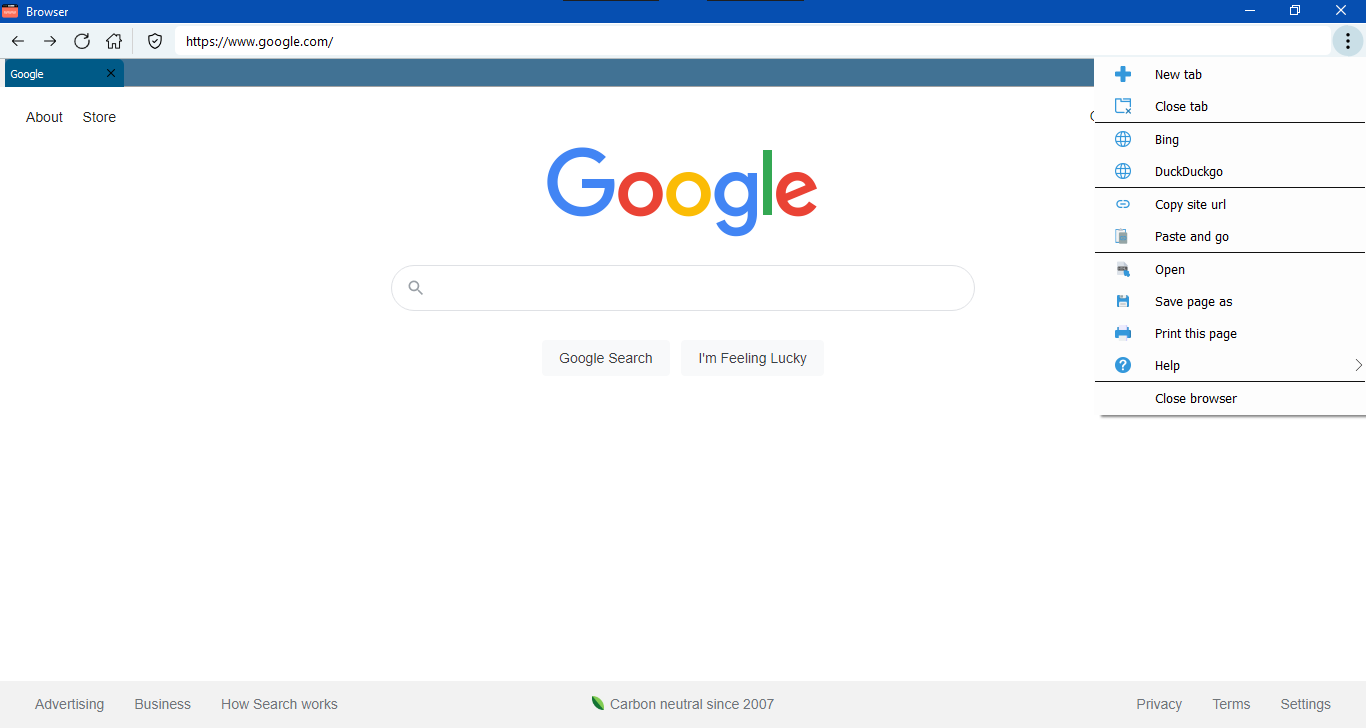
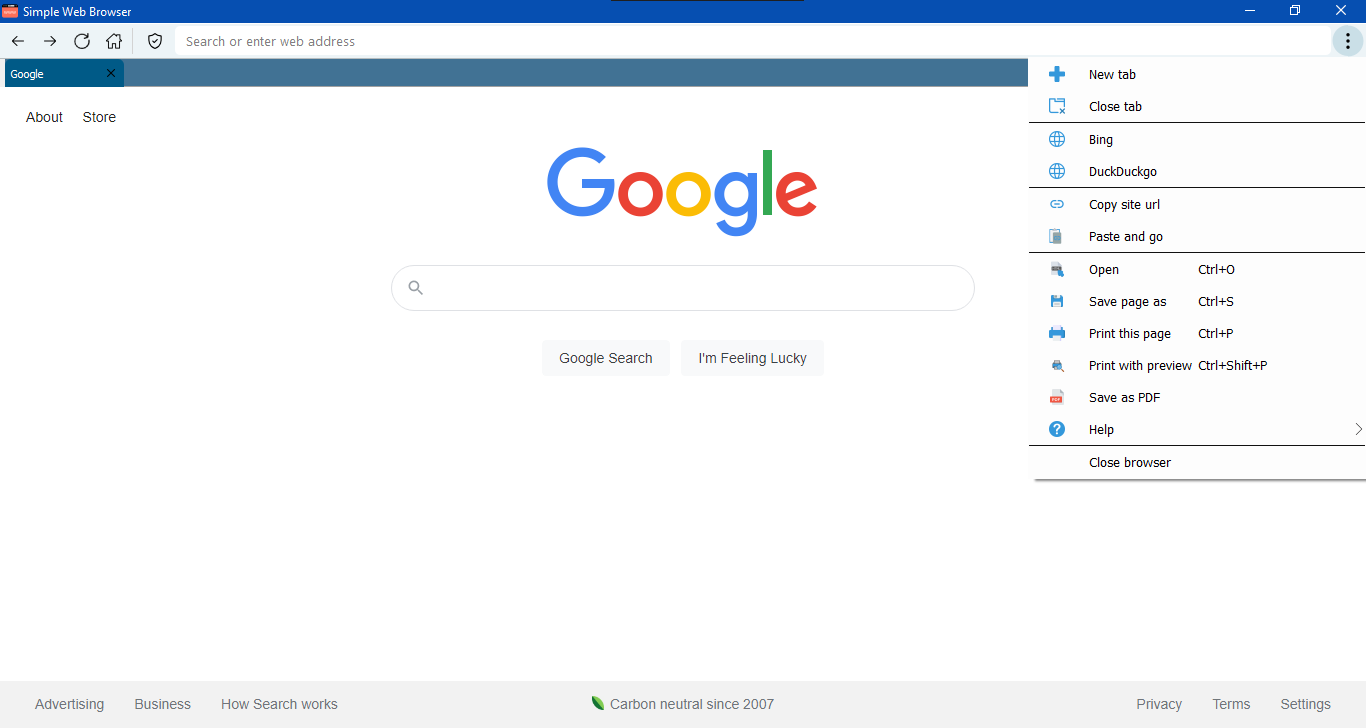
Added print with preview and print functionality

diff --git a/main.py b/main.py
@@ -103,22 +103,25 @@ class PrintHandler(QObject):
             nonlocal result
             result = success
             loop.quit()
+
+        # progressbar to show loading
         progressbar = QProgressDialog(self.m_page.view())
         progressbar.findChild(QProgressBar).setTextVisible(False)
-        progressbar.setLabelText("Wait please...")
+        progressbar.setLabelText("Please wait...")
         progressbar.setRange(0, 0)
         progressbar.show()
         progressbar.canceled.connect(loop.quit)
         self.m_page.print(printer, printPreview)
         loop.exec_()
         progressbar.close()
+
         if not result:
             painter = QPainter()
             if painter.begin(printer):
                 font = painter.font()
                 font.setPixelSize(20)
                 painter.setFont(font)
-                painter.drawText(QPointF(10, 25), "Could not generate print preview.")
+                painter.drawText(QPointF(10, 25), "We could not generate print preview.")
                 painter.end()
 
 
@@ -471,16 +474,17 @@ class mainWindow(QMainWindow):
         context_menu.addSeparator()
 
 
-
         # Close browser
         CloseBrowser = QAction("Close browser", self)
         CloseBrowser.triggered.connect(lambda: sys.exit())
         context_menu.addAction(CloseBrowser)
 
+        """ 
+        Set menu for the button
+        ContextMenuButton.add
+        Add the context menu to the navbar
+        """
 
-        # Set menu for the button
-        # ContextMenuButton.add
-        # Add the context menu to the navbar
         self.navbar.addWidget(ContextMenuButton)
         
         # Stuffs to see at starup
@@ -498,7 +502,6 @@ class mainWindow(QMainWindow):
         # Set minimum size
         self.setMinimumWidth(400)
     
-
 
 
     """Instead of managing 2 slots associated with the progress and completion of loading,
@@ -603,13 +606,13 @@ class mainWindow(QMainWindow):
             parent=self,
             caption="Save Page As", 
             directory="", 
-            filter="Hypertext Markup Language (*.htm *.html);;Webpage, complete (*.htm *.html);;All files (*.*)"
+            filter="Webpage, complete (*.htm *.html);;Hypertext Markup Language (*.htm *.html);;All files (*.*)",
         )
         try:
             if filter == "Hypertext Markup Language (*.htm *.html)":
                 self.tabs.currentWidget().page().save(filepath, format=QWebEngineDownloadItem.MimeHtmlSaveFormat)
                 
-            elif filter == "Webpage, Complete (*.htm *.html)":
+            elif filter == "Webpage, complete (*.htm *.html)":
                 self.tabs.currentWidget().page().save(filepath, format=QWebEngineDownloadItem.CompleteHtmlSaveFormat)
 
         except:
@@ -617,15 +620,21 @@ class mainWindow(QMainWindow):
 
     # Print handler
     def print_this_page(self):
-        handler_print = PrintHandler()
-        handler_print.setPage(self.tabs.currentWidget().page())
+        try:
+            handler_print = PrintHandler()
+            handler_print.setPage(self.tabs.currentWidget().page())
+            handler_print.print()
+        
+        except:
+            self.showErrorDlg()
 
     
 
     # Print page with preview
     def PrintWithPreview(self):
-        pass
-
+        handler = PrintHandler()
+        handler.setPage(self.tabs.currentWidget().page())
+        handler.printPreview()
 
     # Save as pdf
     def save_as_pdf(self):
@@ -791,7 +800,6 @@ class mainWindow(QMainWindow):
         # else browser will go to anything the user has been written
         else:
             url = in_url
-
         
         self.tabs.currentWidget().load(QUrl.fromUserInput(url))
 
